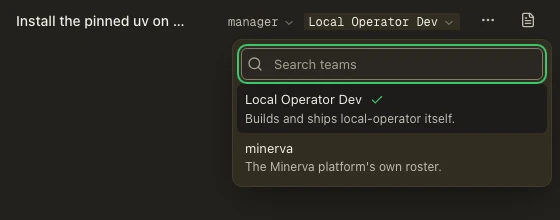
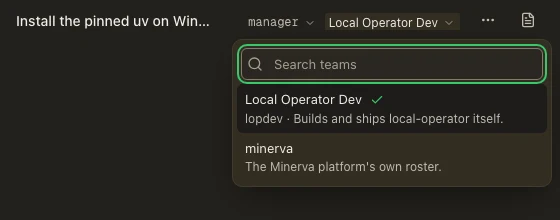
docs(evidence): round-1 remediation re-captures and the width-bound frames
Re-captures the header, header-menu and slash pairs at the remediation head
(`3f93b7941c`), and adds the frames the round asked for: the eighty-character
label at the 560 band and at the app's own 800 minimum, the projects list's
group headings, the detail's `Managed by` line, and the start-session dialog
over the same page. README records what was re-run, why the long-label and
projects frames are after-only, and the native-tooltip declaration.

Changed region(s): [[0.425, 0.5182, 0.9107, 0.5727], [0.3946, 0.0818, 0.7893, 0.1364], [0.3036, 0.0545, 0.3643, 0.1364]]

diff --git a/evidence/team-labels-0930/README.md b/evidence/team-labels-0930/README.md
@@ -11,9 +11,14 @@ half from this branch, and both halves come from a DISPOSABLE fixture tree
 | file | tree | state |
 | --- | --- | --- |
 | `before-sections.webp` / `after-sections.webp` | `origin/main` `ee5611a2e4` / the PR branch `a28e9abe0b` | the sidebar's Teams section: one team with a label (`release-crew` / `Release Engineering`) beside one without (`docs-pod`, the slug fallback) |
-| `before-header.webp` / `after-header.webp` | same | the chat header's identity chip, at rest, on a team-bound session |
-| `before-header-menu.webp` / `after-header-menu.webp` | same | the chip's team menu open (the `commands.entities` rows and the menu's current mark) |
-| `before-slash-teams.webp` / `after-slash-teams.webp` | same | the `/team` slash popup with `/team` typed: the first row is the labelled team, highlighted; the rest are slug fallbacks |
+| `before-header.webp` / `after-header.webp` | same / the PR branch `3f93b7941c` | the chat header's identity chip, at rest, on a team-bound session |
+| `before-header-menu.webp` / `after-header-menu.webp` | same / `3f93b7941c` | the chip's team menu open (the `commands.entities` rows and the menu's current mark) |
+| `before-slash-teams.webp` / `after-slash-teams.webp` | same / `3f93b7941c` | the `/team` slash popup with `/team` typed: the first row is the labelled team, highlighted; the rest are slug fallbacks |
+| `after-long-label.webp` | `3f93b7941c` | the chip against an eighty-character label at the 560 band — the cap truncates, the title reads whole (after-only: see below) |
+| `after-long-label-800.webp` | `3f93b7941c` | the same label at the app's own 800 minimum width |
+| `after-projects-list.webp` | `3f93b7941c` | the projects list's team group headings, resolved through the label lookup (after-only) |
+| `after-projects-detail.webp` | `3f93b7941c` | a project detail's `Managed by atlas · Platform Delivery` line (after-only) |
+| `after-projects-start-session.webp` | `3f93b7941c` | the start-session dialog over the same page: labelled team options, the page behind already resolved (after-only) |
 
 ## The fixture trick, and what each pair is allowed to claim
 
@@ -25,13 +30,16 @@ ignored extra property on the old code). One variable changes between the two
 columns: the renderer. A pair therefore shows exactly what the label split
 changed, and nothing else.
 
-WHAT A PAIR DOES NOT SHOW: the team PICKER dialog, the agents page's Teams
-roster and the projects start-session dialog also carry the change (they read
-the same `teamDisplayName` rule), but no capture-rig entry or story exists for
-any of them, so the PR's own unit cases are that claim's evidence and no frame
-here is a picture of those three surfaces. One theme (`localOperatorDark`),
-one size per story; a theme this branch does not photograph is a theme this
-pair says nothing about.
+WHAT A PAIR DOES NOT SHOW: the team PICKER dialog and the agents page's
+Teams roster also carry the change (they read the same `teamDisplayName`
+rule), but no capture-rig entry or story exists for either, so the PR's own
+unit cases are that claim's evidence and no frame here is a picture of those
+two surfaces. The projects surfaces (list headings, detail line,
+start-session dialog) were in the same position in round 1 and gained frames
+in round 1's remediation — after-only, for the reason the round-1 section
+below records. One theme (`localOperatorDark`), one size per story except the
+long-label pair; a theme this branch does not photograph is a theme this pair
+says nothing about.
 
 ## How they were taken
 
@@ -75,16 +83,55 @@ same commands produced a differing byte stream that did not recur in the two
 runs after it, so the receipt is the consecutive byte-identical runs rather
 than a claim of strict determinism.
 
+## Round-1 remediation re-captures (head `3f93b7941c`)
+
+The design/review/QA rounds asked for the chip to be bounded, the slug to be
+shown beside the label, and the projects surfaces to resolve team names. The
+three pairs' AFTER frames were re-captured at the remediation head through the
+same rig and the same commands as above (one storybook on `:6037`; runs:
+`--only=chat-header-identity--`, `--only=chat-slash-completion--argument-phase-teams`,
+`--only=projects-tab--list-teams-sticky`, `--only=projects-tab--detail`,
+`--only=projects-tab--start-session-dialog`, each `--themes=localOperatorDark`,
+each frame viewed before it was copied here), and `docs/evidence` was restored
+again (`git checkout -- docs/evidence && git clean -fd docs/evidence`).
+
+- The three pairs' BEFORE halves are unchanged (they are `origin/main`'s
+  renderer); only the AFTER column moved, and the moves are local: the header
+  pair differs on the title/chip line only (the title re-truncates around the
+  bounded chip's new width, the chip changes face), the menu pair across the
+  chip and the labelled row (its description line now leads with the slug),
+  the slash pair on its first row (label in the human face, slug token beside
+  it) plus lossy-WebP block noise below.
+- The long-label pair has NO before half, deliberately: on `origin/main`'s
+  renderer the story's `label` is an ignored property, so a before frame would
+  photograph the slug fallback rather than the overflow the cap removes. It is
+  after-only, and the rig's `expectAttribute` pins the trigger's `title` to
+  `Data Quality, Sanctions Screening and Regulatory Reporting (Global Markets
+  Desk) (data-quality)` at shutter time — the whole label plus the slug.
+- The projects frames are after-only for the same class of reason (the
+  fixtures that make labels resolvable are this branch's), and the story
+  fixtures gained the `platform` team the project rows actually name, so these
+  frames differ from round 1's project captures in their fixtures as well as
+  their code. They are pictures of the fixed surfaces, not a before/after
+  pair. The board's band headers and the timeline's group headers resolve
+  through the same prop and the same rule and are not photographed here.
+- Not capturable, declared: the sidebar entity row's tooltip is a native
+  `title` attribute, which never appears in a CDP screenshot. Its text is
+  `Label (slug)` when the two differ, pinned by the row's own tests.
+
 ## What the pairs show, in one line each
 
 - **sections**: `Release Engineering` against `release-crew`; the unlabelled
   `docs-pod` draws as its slug in both columns, which is the fallback claim as
   a picture.
-- **header chip**: `Local Operator Dev` against `lopdev`. A consequence the
-  design round may want to weigh: the chip is wider, so the title beside it
-  ellipsises one word earlier (`… uv on Windows` against `… uv on …`) — the
-  same header budget, differently spent, which is what a longer readable name
-  costs.
+- **header chip**: `Local Operator Dev` against `lopdev`, and at this head the
+  chip is BOUNDED (an 80-character label caps at `24ch` with the whole label
+  and the slug in its `title` — the rig asserts that title at shutter time,
+  and the long-label pair photographs the cap at 560 and at 800). The cap
+  changed a consequence round 1 recorded: the bounded, human-faced chip is
+  NARROWER than the uncapped mono one was, so at the 560 band the title keeps
+  a word it lost in round 1 (`… uv on Win…` where round 1's after read
+  `… uv on …`).
 - **header menu**: the menu row shows the label while the switch's value stays
   the slug (the check mark sits on the same row in both columns).
 - **slash popup**: `Platform Delivery` (highlighted first row) against
